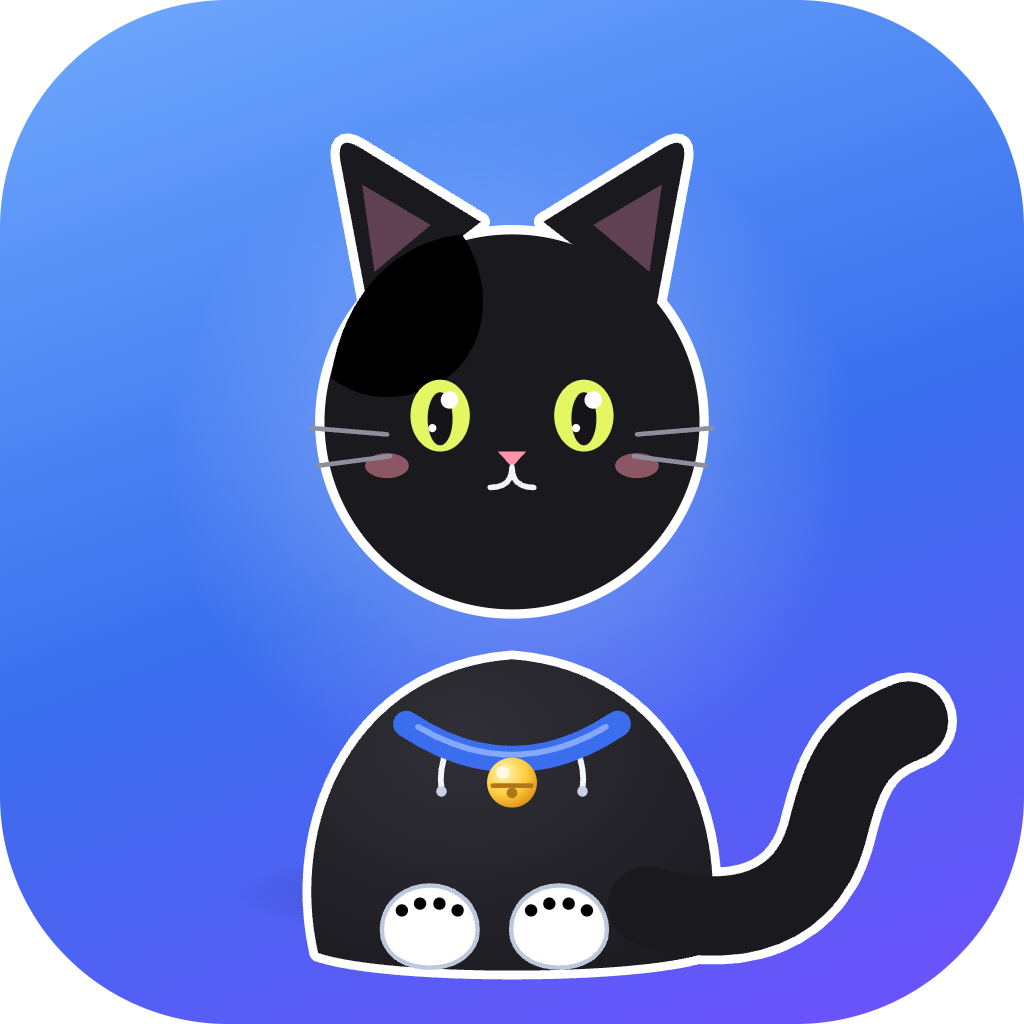
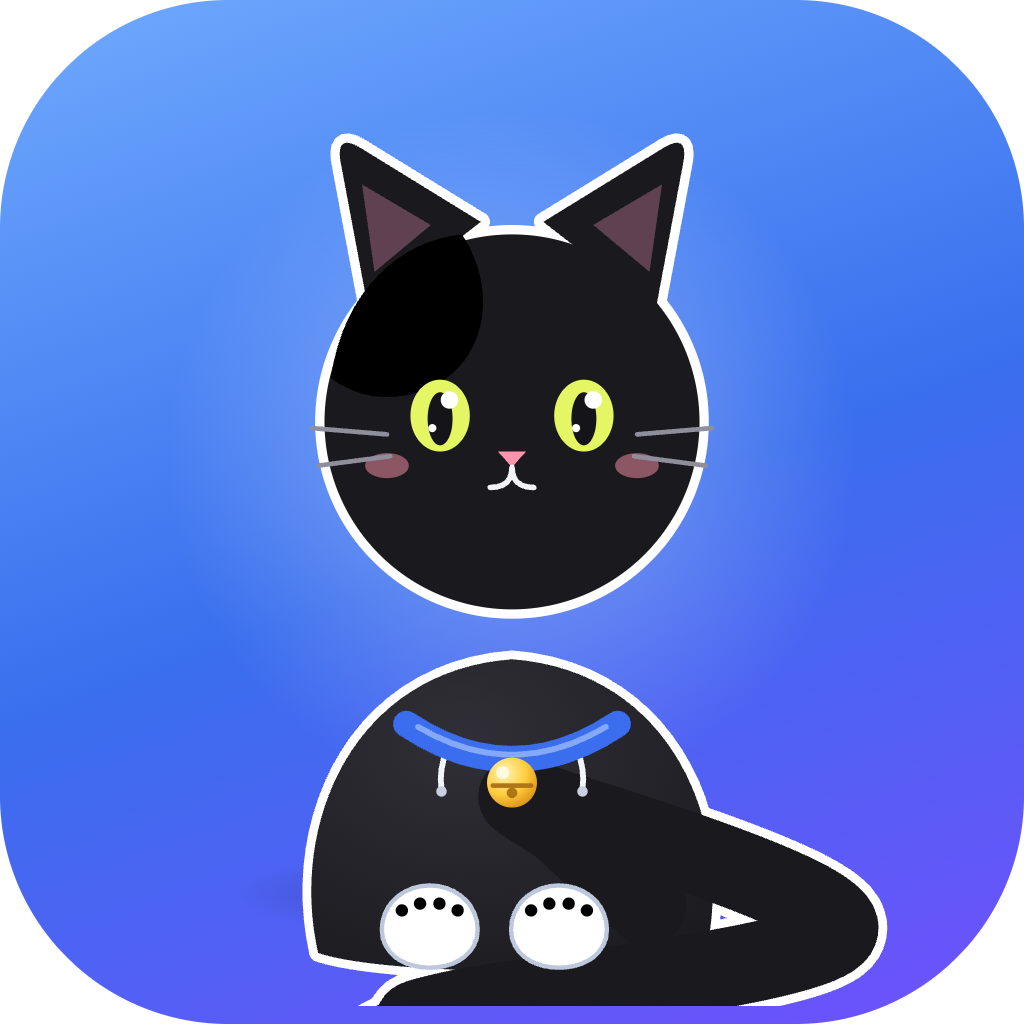
v1.4.2：尾巴改为每帧实时计算的连续曲线（修复摇尾错位/接口棱角）；头像拖动改用 clientX 差值
- art.js 新增 tailPathD(baseDeg, tipDeg)：单一中心线（Catmull-Rom→贝塞尔）+ 共享几何的尾尖着色子路径，任何角度组合下轮廓平滑无接口
- 移除两段刚体旋转（tail-grp），渲染层每帧喂 d
- 头像拖动位移来源 movementX → clientX/Y 差值（部分环境 movementX 恒为 0，导致无法调整头像位置）
- 冒烟：归位断言改用 computed left/top（包围盒随头部旋转晃动）

Changed region(s): [[0.3438, 0.6562, 0.9375, 1.0]]

diff --git a/src/renderer/shared/art.js b/src/renderer/shared/art.js
@@ -10,10 +10,48 @@
   const DOLL_PATH = 'M34 118 L 34 54 C 34 30, 52 18, 80 18 C 108 18, 126 30, 126 54 L 126 118 Z';
   // 尾巴和身子画在同一张 SVG 里、共用一层白色贴纸底，接口处才不会断开。
   // S 形：从身子右下伸出，先向右再扬起，末端向右勾。坐标是身子的 viewBox 单位。
-  // 尾巴拆成两段：基础段连着身子，尾尖段独立旋转（动画里带弹性追赶，参考 KuroCat 的思路）
-  const TAIL_BASE = 'M126 98 C 158 107, 180 98, 187 74';
-  const TAIL_TIP = 'M187 74 C 192 54, 196 42, 215 35';
-  const TAIL_PIVOT = { base: [150, 96], tip: [187, 74] };
+  // 尾巴：单一连续曲线，每帧按两个弹簧角度实时重建路径——
+  // 没有两段刚体的接缝，任何角度组合下轮廓都是平滑的。
+  // 几何（torso viewBox 坐标）：尾根 (126,98)，静止方向 角度（度），段长
+  const TAIL_ROOT = [126, 98];
+  const TAIL_REST = { base: -21.4, tip: -54.3 }; // 相对水平线的静止方向
+  const TAIL_LEN = { base: 65.6, tip: 50 };
+
+  function smooth01(x) {
+    const t = Math.min(1, Math.max(0, x));
+    return t * t * (3 - 2 * t);
+  }
+
+  /**
+   * 计算尾巴路径。baseDeg / tipDeg 分别是尾根段、尾尖段相对静止方向的摆角（度）。
+   * 返回 { d, dTip }：d 是整条尾巴的中心线（Catmull-Rom 转贝塞尔），dTip 是最后
+   * 一小段（双色尾巴的浅色尾尖，和 d 共用同一几何，所以接口处永远平滑）。
+   */
+  function tailPathD(baseDeg, tipDeg) {
+    const rad = (deg) => (deg * Math.PI) / 180;
+    const a1 = TAIL_REST.base + rad(baseDeg);
+    const a2 = TAIL_REST.tip + rad(baseDeg + tipDeg);
+    const pts = [];
+    const N = 10;
+    for (let i = 0; i <= N; i++) {
+      const s = i / N;
+      const bend = smooth01((s - 0.42) / 0.16); // 只在关节附近过渡两种角度，两端保持纯方向
+      const ang = a1 + (a2 - a1) * bend;
+      const len = s <= 0.5 ? TAIL_LEN.base * (s / 0.5) : TAIL_LEN.base + TAIL_LEN.tip * ((s - 0.5) / 0.5);
+      pts.push([TAIL_ROOT[0] + Math.cos(ang) * len, TAIL_ROOT[1] + Math.sin(ang) * len]);
+    }
+    const toD = (list) => {
+      let out = `M${list[0][0].toFixed(1)} ${list[0][1].toFixed(1)}`;
+      for (let i = 0; i < list.length - 1; i++) {
+        const p0 = list[Math.max(0, i - 1)], p1 = list[i], p2 = list[i + 1], p3 = list[Math.min(list.length - 1, i + 2)];
+        const c1x = p1[0] + (p2[0] - p0[0]) / 6, c1y = p1[1] + (p2[1] - p0[1]) / 6;
+        const c2x = p2[0] - (p3[0] - p1[0]) / 6, c2y = p2[1] - (p3[1] - p1[1]) / 6;
+        out += ` C ${c1x.toFixed(1)} ${c1y.toFixed(1)}, ${c2x.toFixed(1)} ${c2y.toFixed(1)}, ${p2[0].toFixed(1)} ${p2[1].toFixed(1)}`;
+      }
+      return out;
+    };
+    return { d: toD(pts), dTip: toD(pts.slice(-4)), root: TAIL_ROOT };
+  }
 
   const BELL = `
 <g id="bell">
@@ -48,16 +86,11 @@
   </radialGradient>
   <clipPath id="torsoClip"><path d="${TORSO_PATH}"/></clipPath>
 </defs>
-<g class="tail-grp tail-base"><path class="sil" d="${TAIL_BASE}" fill="none" stroke="#fff" stroke-width="33" stroke-linecap="round"/></g>
-<g class="tail-grp tail-tip"><path class="sil" d="${TAIL_TIP}" fill="none" stroke="#fff" stroke-width="33" stroke-linecap="round"/></g>
+<path id="tailSil" class="sil tail-stroke" fill="none" stroke="#fff" stroke-width="33" stroke-linecap="round"/>
 <g class="sil"><path d="${TORSO_PATH}" fill="#fff" stroke="#fff" stroke-width="6" stroke-linejoin="round"/></g>
 <path d="${TORSO_PATH}" fill="url(#torsoShade)"/>
-<g class="tail-grp tail-base">
-  <path class="tail-stroke" d="${TAIL_BASE}" fill="none" stroke="var(--tail)" stroke-width="27" stroke-linecap="round"/>
-</g>
-<g class="tail-grp tail-tip">
-  <path class="tail-stroke" d="${TAIL_TIP}" fill="none" stroke="var(--tail-tip)" stroke-width="27" stroke-linecap="round"/>
-</g>
+<path id="tailColor" class="tail-stroke" fill="none" stroke="var(--tail)" stroke-width="27" stroke-linecap="round"/>
+<path id="tailTipC" class="tail-stroke" fill="none" stroke="var(--tail-tip)" stroke-width="27" stroke-linecap="round"/>
 ${['bluewhite', 'orange', 'cream'].includes(variant) ? `<g clip-path="url(#torsoClip)" fill="var(--patch)">
   <path d="M14 114 C 4 70, 26 18, 80 14 C 76 46, 68 74, 64 120 L 14 114 Z"/>
   <path d="M96 15 C 124 20, 146 46, 152 80 C 132 66, 108 46, 96 15 Z"/>
@@ -149,5 +182,5 @@ ${eye(57)}${eye(103)}
 <rect class="kb-plate" x="3.6" y="3.6" width="292.8" height="102.8" rx="8"/>${keys}`;
   }
 
-  return { torsoMarkup, pawMarkup, cartoonHeadMarkup, keyboardSvg, TAIL_PIVOT };
+  return { torsoMarkup, pawMarkup, cartoonHeadMarkup, keyboardSvg, tailPathD };
 }));

diff --git a/src/renderer/pet/pet.js b/src/renderer/pet/pet.js
@@ -48,7 +48,7 @@
     stage: $('#stage'),
     body: document.body,
     headAnim: $('#headAnim'), headImg: $('#headImg'), headGhost: $('#headGhost'), headVideo: $('#headVideo'), cartoon: $('#headCartoon'),
-    torso: $('#torso'), tailBase: [], tailTip: [], bell: null, pawL: $('#pawL'), pawR: $('#pawR'),
+    torso: $('#torso'), tailSil: null, tailColor: null, tailTipC: null, bell: null, pawL: $('#pawL'), pawR: $('#pawR'),
     armL: $('#armL'), armR: $('#armR'), armLEdge: $('#armLEdge'), armREdge: $('#armREdge'),
     kb: $('#kb'), kbd: $('#kbd'), bubbles: $('#bubbles'), hearts: $('#hearts'),
     speech: $('#speech'), speechText: $('#speechText'), voice: $('#voice'),
@@ -76,8 +76,9 @@
   function buildBody() {
     const v = cfg.settings.body;
     el.torso.innerHTML = ART.torsoMarkup(v);
-    el.tailBase = Array.from(el.torso.querySelectorAll('.tail-grp.tail-base'));
-    el.tailTip = Array.from(el.torso.querySelectorAll('.tail-grp.tail-tip'));
+    el.tailSil = el.torso.querySelector('#tailSil');
+    el.tailColor = el.torso.querySelector('#tailColor');
+    el.tailTipC = el.torso.querySelector('#tailTipC');
     el.cartoon.innerHTML = ART.cartoonHeadMarkup();
     el.pawL.innerHTML = ART.pawMarkup();
     el.pawR.innerHTML = ART.pawMarkup();
@@ -460,7 +461,7 @@
   el.headAnim.addEventListener('pointerdown', (e) => {
     if (e.button !== 0) return;
     if (cfg.settings && !cfg.settings.headLock) {
-      headMove = { ox: cfg.offset.x, oy: cfg.offset.y, moved: 0 };
+      headMove = { lx: e.clientX, ly: e.clientY, ox: cfg.offset.x, oy: cfg.offset.y, moved: 0 };
       try { el.headAnim.setPointerCapture(e.pointerId); } catch { /* 不影响 */ }
     } else {
       press = { t: performance.now(), moved: 0, petting: false, sawHeld: false };
@@ -493,12 +494,18 @@
   }
 
   window.addEventListener('pointermove', (e) => {
-    if (headMove) { // 拖动头像位置
-      const nx = clamp(headMove.ox + (e.movementX || 0), -110, 110);
-      const ny = clamp(headMove.oy + (e.movementY || 0), -80, 60);
-      if (nx !== cfg.offset.x || ny !== cfg.offset.y) {
-        cfg.offset = { x: nx, y: ny };
-        headMove.moved += Math.abs(e.movementX || 0) + Math.abs(e.movementY || 0);
+    if (headMove) { // 拖动头像位置（用 clientX/Y 差值，兼容一切输入环境）
+      const dx = (e.clientX || 0) - headMove.lx;
+      const dy = (e.clientY || 0) - headMove.ly;
+      headMove.lx = e.clientX;
+      headMove.ly = e.clientY;
+      const moved = Math.abs(dx) + Math.abs(dy);
+      if (moved) {
+        headMove.moved += moved;
+        cfg.offset = {
+          x: clamp(cfg.offset.x + dx, -110, 110),
+          y: clamp(cfg.offset.y + dy, -80, 60),
+        };
       }
       return;
     }
@@ -669,10 +676,13 @@
 
     el.torso.style.transform = `translateX(${springSpine.x.toFixed(2)}px) scaleY(${springSquash.x.toFixed(4)})`;
 
-    // 尾巴两段：尾根大摆，尾尖弹性追赶（打字 / 生气 / 开心时被「踢」一下会甩起来）
-    const pv = ART.TAIL_PIVOT;
-    for (const g of el.tailBase) g.setAttribute('transform', `rotate(${springTail.x.toFixed(2)} ${pv.base[0]} ${pv.base[1]})`);
-    for (const g of el.tailTip) g.setAttribute('transform', `rotate(${springTailTip.x.toFixed(2)} ${pv.tip[0]} ${pv.tip[1]})`);
+    // 尾巴：整条曲线每帧按两个弹簧角度实时重建（连续无接口）
+    if (el.tailColor) {
+      const td = ART.tailPathD(springTail.x, springTailTip.x - springTail.x);
+      el.tailSil.setAttribute('d', td.d);
+      el.tailColor.setAttribute('d', td.d);
+      el.tailTipC.setAttribute('d', td.dTip);
+    }
     if (el.bell) el.bell.style.transform = `rotate(${(7 * Math.sin(t * 2.1 - 1.3) + typing * 10 * Math.sin(t * 25)).toFixed(2)}deg)`;
     if ((cfg.settings ? cfg.settings.headMode : 'photo') === 'cartoon') {
       const ears = el.cartoon.querySelectorAll('.ear');

diff --git a/src/main/selftest.js b/src/main/selftest.js
@@ -246,7 +246,8 @@ async function runSelfTest(ctx) {
   await step('head-offset', async () => { // 未锁定时拖头像=调位置，锁定后不可拖
     await setSettings({ headMode: 'photo', head: null, headLock: false, headOffset: null });
     await sleep(400);
-    const pos0 = await js(pet, "(() => { const r = document.getElementById('headAnim').getBoundingClientRect(); return [Math.round(r.left), Math.round(r.top)]; })()");
+    const posOf = "(() => { const r = document.getElementById('headAnim'); const c = getComputedStyle(r); return [Math.round(parseFloat(c.left)), Math.round(parseFloat(c.top))]; })()";
+    const pos0 = await js(pet, posOf);
     await js(pet, `(() => {
       const head = document.getElementById('headAnim');
       const fire = (type, x, y, mx, my) => head.dispatchEvent(new PointerEvent(type, {
@@ -257,7 +258,7 @@ async function runSelfTest(ctx) {
       return 1;
     })()`);
     await sleep(600);
-    const pos1 = await js(pet, "(() => { const r = document.getElementById('headAnim').getBoundingClientRect(); return [Math.round(r.left), Math.round(r.top)]; })()");
+    const pos1 = await js(pet, posOf);
     const saved = getSettings().headOffset;
     check(pos1[0] > pos0[0] && pos1[1] < pos0[1], `拖动后头像没有移动（${JSON.stringify(pos0)}→${JSON.stringify(pos1)}）`);
     check(saved && saved.x > 0 && saved.y < 0, `偏移没有落盘（${JSON.stringify(saved)}）`);
@@ -279,8 +280,8 @@ async function runSelfTest(ctx) {
     await shot(`${String(n++).padStart(2, '0')}-head-locked`);
     await setSettings({ headLock: false, headOffset: null });
     await sleep(400); // 等动画帧：脑袋有呼吸浮动，比较留容差
-    const pos2 = await js(pet, "(() => { const r = document.getElementById('headAnim').getBoundingClientRect(); return [Math.round(r.left), Math.round(r.top)]; })()");
-    check(Math.abs(pos2[0] - pos0[0]) <= 4 && Math.abs(pos2[1] - pos0[1]) <= 4, `归位后没有回到默认位置（${JSON.stringify(pos0)}→${JSON.stringify(pos2)}）`);
+    const pos2 = await js(pet, posOf);
+    check(pos2[0] === pos0[0] && pos2[1] === pos0[1], `归位后没有回到默认位置（${JSON.stringify(pos0)}→${JSON.stringify(pos2)}）`);
   });
   await step('head-sizes', async () => {
     await setSettings({ headScale: 1.4 });

diff --git a/src/renderer/pet/pet.css b/src/renderer/pet/pet.css
@@ -59,6 +59,7 @@ body[data-desk="none"] #pad, body[data-desk="none"] #kb, body[data-desk="none"] 
 #torso .collar { fill: none; stroke: var(--collar); stroke-width: 9; stroke-linecap: round; }
 #torso .collar-hi { fill: none; stroke: var(--collar-hi); stroke-width: 2; stroke-linecap: round; opacity: .75; }
 #torso .bell-slit { fill: none; stroke: #b9800a; stroke-width: 1.6; stroke-linecap: round; }
+body[data-body="doll"] #tailSil, body[data-body="doll"] #tailColor, body[data-body="doll"] #tailTipC { display: none; }
 #torso .hood { fill: var(--fur-line); }
 #torso .pocket { fill: var(--fur); stroke: var(--fur-line); stroke-width: 1.6; stroke-linejoin: round; }
 #bell { transform-origin: 80px 45px; }
@@ -151,8 +152,8 @@ body[data-body="bluewhite"] #headCartoon .patch { display: block; }
 #pawL *, #pawR * { pointer-events: visiblePainted; }
 
 /* ---------- 贴纸白边的矢量部分 ---------- */
-#pad .sil, #torso .sil, #headCartoon .sil, #deskmouse .sil, #kb .sil { display: none; }
-body.sticker #pad .sil, body.sticker #torso .sil,
+#pad .sil, #torso .sil, #headCartoon .sil, #deskmouse .sil, #kb .sil, #torso #tailSil { display: none; }
+body.sticker #pad .sil, body.sticker #torso .sil, body.sticker #torso #tailSil,
 body.sticker #headCartoon .sil, body.sticker #deskmouse .sil, body.sticker #kb .sil { display: inline; }
 body:not(.sticker) #torso { filter: drop-shadow(0 3px 4px rgba(0, 0, 0, .26)); }
 

diff --git a/tools/icon.html b/tools/icon.html
@@ -65,7 +65,10 @@
 
     function appIcon() {
       // 纯黑猫：卡通头 + 带尾巴的身子 + 两只爪子（贴纸白边保留），不用真人头像
-      const torso = ART.torsoMarkup('black');
+      const torso = ART.torsoMarkup('black')
+        .replace('id="tailSil"', `id="tailSil" d="${ART.tailPathD(9, 14).d}"`)
+        .replace('id="tailColor"', `id="tailColor" d="${ART.tailPathD(9, 14).d}"`)
+        .replace('id="tailTipC"', `id="tailTipC" d="${ART.tailPathD(9, 14).dTip}"`);
       const paw = ART.pawMarkup('black');
       const head = ART.cartoonHeadMarkup();
       return `<div id="app">
